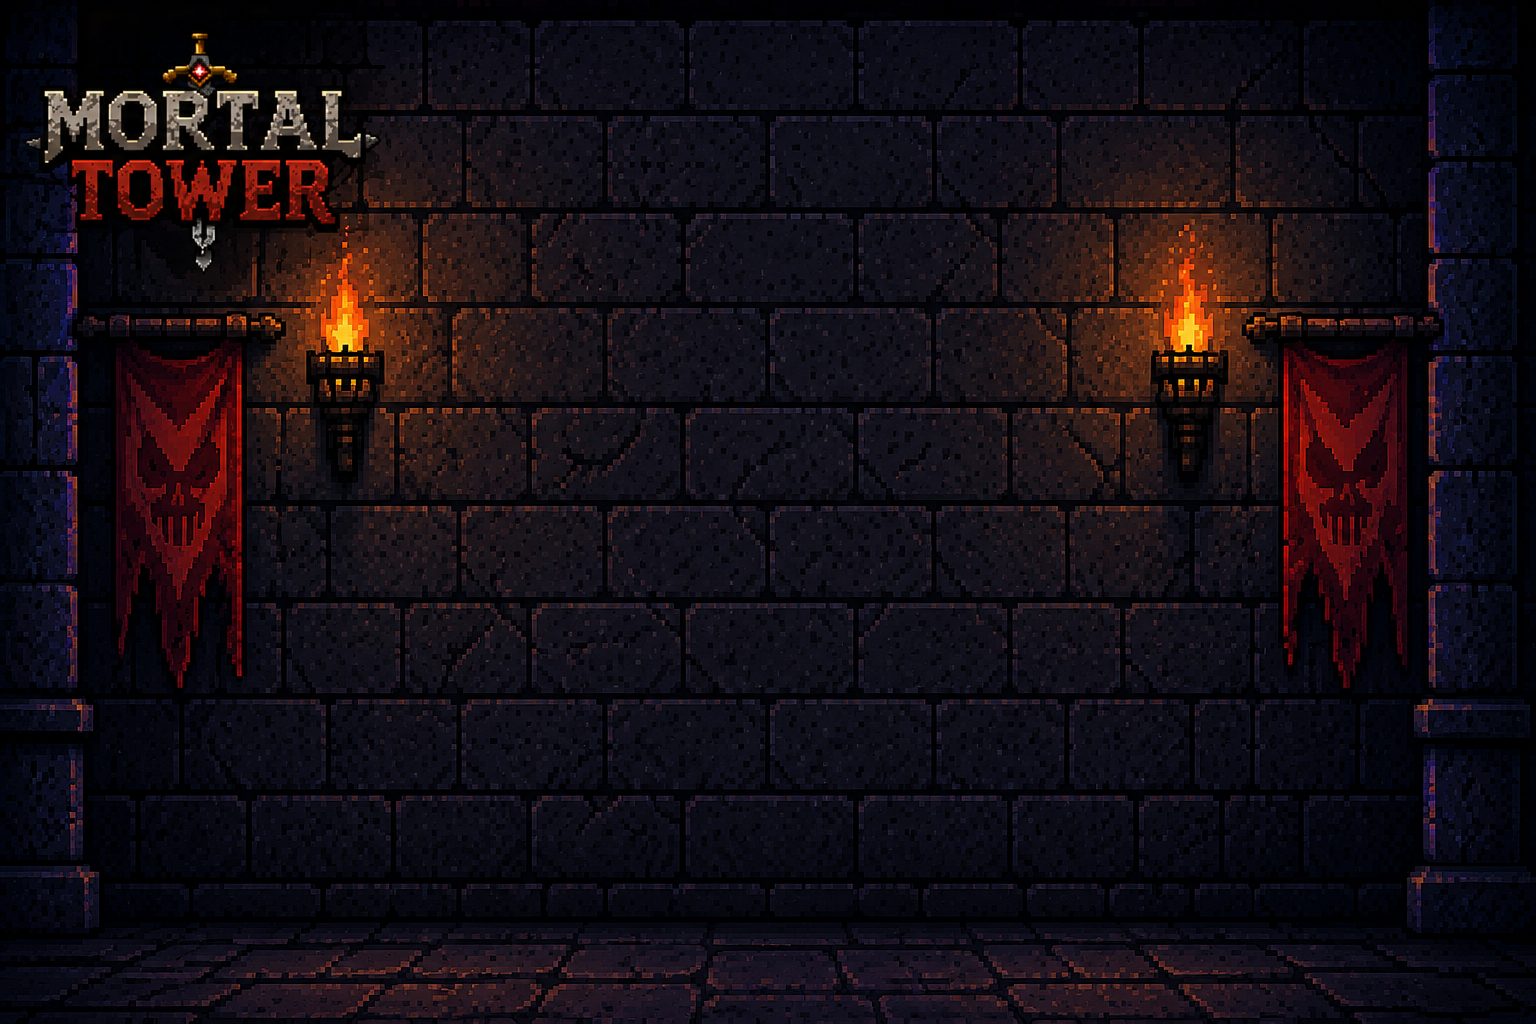
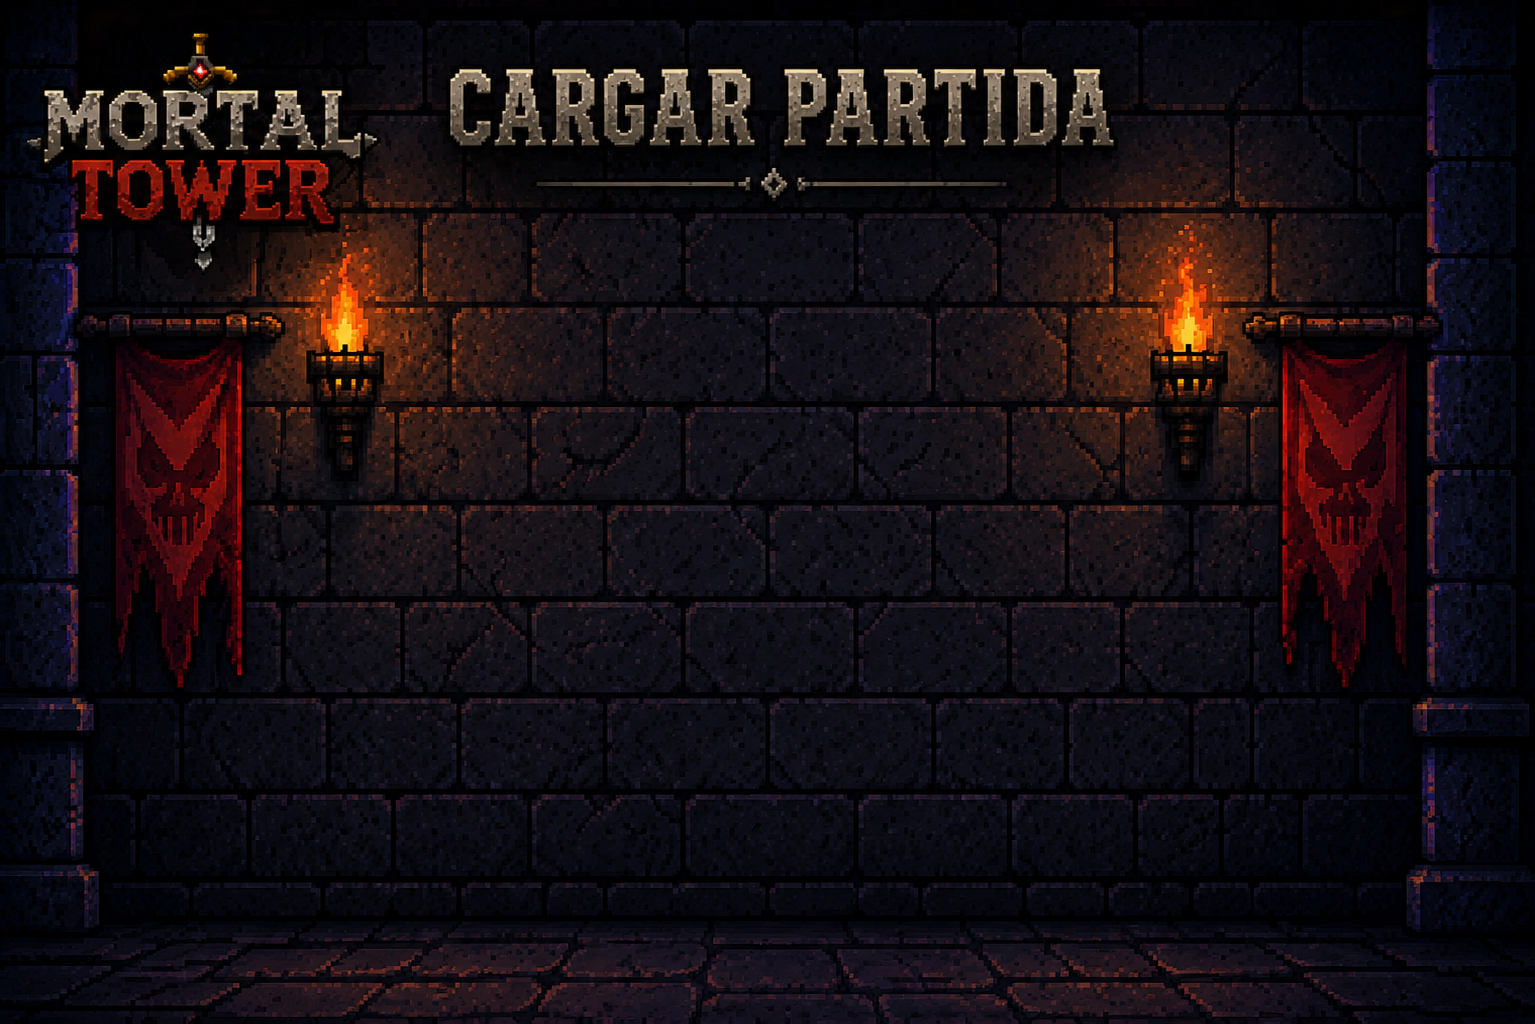
mejora en la estetica de carga

diff --git a/core/src/main/java/com/mortaTower/Vista/CargarVista.java b/core/src/main/java/com/mortaTower/Vista/CargarVista.java
@@ -18,7 +18,7 @@ public class CargarVista {
     private Texture slotNormal;
     private Texture slotSelected;
 
-    //private TextureRegion slotNormal;
+
   
 
     public CargarVista(CargarModelo cargarModelo) {
@@ -37,10 +37,6 @@ public class CargarVista {
         
         batch.draw(fondo, 0, 0, WORLD_WIDTH, WORLD_HEIGHT);
 
-        float titleX = WORLD_WIDTH * 0.35f;
-        float titleY = WORLD_HEIGHT * 0.85f;
-        font.setColor(Color.YELLOW);
-        font.draw(batch, "CARGAR PARTIDA", titleX, titleY);
 
         float optionX = WORLD_WIDTH * 0.42f;
         float optionY = WORLD_HEIGHT * 0.7f;
@@ -52,11 +48,10 @@ public class CargarVista {
         font.setColor(Color.WHITE);
         for (int i = 0; i < partidas.size(); i++) {
 
-            //TextureRegion slot = (i == seleccion) ? slotSelected : slotNormal;
+          
             Texture slot = (i == seleccion) ? slotSelected : slotNormal;
             
-            //float ajusteX = (i == seleccion) ? -4 : 0; // Ajuste para centrar el texto en el slot seleccionado
-             //  batch.draw( slot, WORLD_WIDTH * 0.28f, optionY - separacion * i - 45, WORLD_WIDTH * 0.44f, 70);
+        
             float slotWidth = WORLD_WIDTH * 0.44f;
             float slotHeight = 90;
 
@@ -65,11 +60,11 @@ public class CargarVista {
 
             if(i == seleccion){
                font.setColor(Color.YELLOW);
-                //font.draw(batch, "> " + partidas.get(i), optionX, optionY - separacion * i);
+               
                 font.draw(batch, partidas.get(i), WORLD_WIDTH * 0.37f, optionY - separacion * i);
                 font.setColor(Color.WHITE);
             } else {
-                //font.draw(batch, " " + partidas.get(i), optionX, optionY - separacion * i);
+             
                 font.draw(batch, partidas.get (i), WORLD_WIDTH * 0.37f, optionY - separacion * i);
             }
             }
